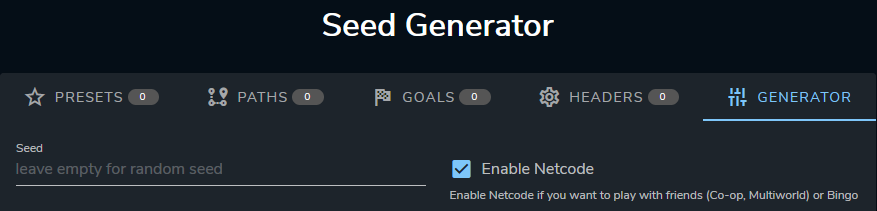
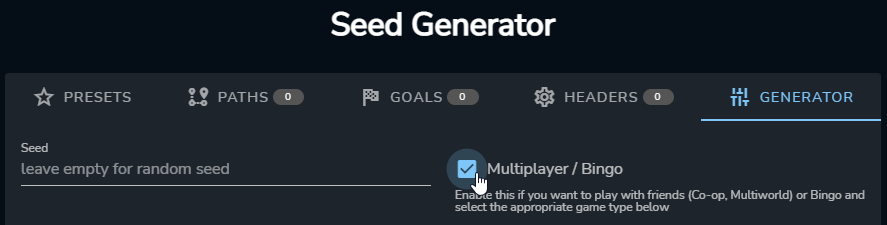
1.1 update

diff --git a/content/features/multiplayer.md b/content/features/multiplayer.md
@@ -2,47 +2,49 @@
 title: Multiplayer
 ---
 
-The randomizer also adds the possibility to play with other players! To do so, you first want to [generate a seed](/seedgen) with the Enable Netcode option enabled in the Generator tab.
+The randomizer also adds the possibility to play with other players! To do so, you first want to [generate a seed](/seedgen) with the Multiplayer/Bingo option from the Generator tab enabled.
 
 ![Netcode in gui](/media/netcode.png)
 
-When you generate a seed from the [Launcher](/features/launcher), you will automatically get redirected to the Game tab. If you aren't connected, you will need to log in by clicking on the top right button. The connection is using [Discord](https://discord.com/) so please download it if you don't already have it.
+Enabling that option will let you choose which kind of game you want to play from the dropdown just bellow. When you generate a seed from the [Launcher](/features/launcher), you will automatically get redirected to the Game tab. If you aren't connected, you will need to log in by clicking on the top right button. The connection is using [Discord](https://discord.com/) so please download it if you don't already have it.
 
-Once you are redirected to the Game tab, you can hover your mouse on the arrow on the left to make a little pop-in appear. In this pop-in, there is a button to share your game; clicking on it will copy the link to your game in your clipboard which you need to share to the other players. Opening this link will open the same page as your Game tab in a web browser. From here, other players can open the pop-in on the left to either download the seed or opening the game in the [Launcher](/features/launcher) itself. From here, you will be able to settup each teams
+Once you are redirected to the Game tab, you can click on the icon next to the game number to copy the link to this specific game in your clipboard and share it with the other players. Opening this link will open the same page as your Game tab in a web browser. They can then open the game in the launcher by clicking on the corresponding button.
 
-## Universe and World
+From here, you will be able to settup each teams by either creating new Universes or joining an already existing one. Click on the Play button from the World you are in in order to launch your seed.
+
+## Universe and Worlds
 
 On the Game tab, you should see something like this:
 
 ![Universe example](/media/universe.png)
 
-You will be either able to create a new universe, a new world inside an existing universe or joining an already created world. Each level have it's specificity:
+You will be either able to create a new universe or join a World. A World is each "box" inside a universe and they are automatically created when creating a new Universe. Each level have it's specificity:
 
-* Each players inside the same world are playing in [Co-op](/features/multiplayer#co-op) and are sharing their pickups and states. They have to play on the same seed.
-* Each worlds inside the same universe are sharing [Multiworld](/features/multiplayer#multiworld) pickups. Each worlds are playing in cooperation but players from World A are playing a different seed than players from World B.
-* An universe can be seen as a team and each universes are playing against each others. Each players in an universe are sharing [Bingo](/features/multiplayer#bingo) goals. Different universes are separated from each other which means players from Universe A can't interact with players from Universe B. 
+* Each players inside the same World are playing in [Co-op](/features/multiplayer#co-op) and are sharing their pickups and states. They are playing the same seed.
+* Each players inside the same Universe form a team. Players from the same Universe are sharing [Bingo](/features/multiplayer#bingo) goals and different Universes are playing aganst each others. Different Universes are separated from each other which means players from Universe A can't interact with players from Universe B.
+* Each players inside different World from the same Universe are playing in [Multiworld](/features/multiplayer#multiworld). Everyone is playing in cooperation but players from different Worlds are playing different seeds. 
 
 ## Co-op
 
-In Co-op, every player play on the same seed and share pickups so if a player from your team collects a pickup you will get that item aswell and the pickup will disappear from your game. This mode also shares game states so for example if your teammate opened the second room of wellspring, it will be open for every other players aswell.
+In Co-op, every player play on the same seed and share pickups so if a player from your team collects a pickup you will get the corresponding item aswell and the pickup will disappear from your game. This mode also shares game states so for example if your teammate opened the second room of Wellspring, it will be open for every other players aswell.
 
-To play in Co-op, when enabling the Netcode option in the [seed generator](/seedgen), more options should show up. Select the Normal option from the last dropdown and then generate your seed like any other seed. Then, use the share button in order to let the other players access your Game and download the seed. When you are on that page, either create a new Universe or join an already existing World. Every players which are on the same team must join the same World in order to share pickups. Different teams must be in a different Universe.
+To play in Co-op, when enabling the Multiplayer option in the [seed generator](/seedgen), more options should show up. Select the Normal option from the dropdown and then generate your seed like any other seed. Then, share the link to your game by clicking on the button next to the game number in order to let the other players access your Game and download the seed. When you are on that page, either create a new Universe or join an already existing World. Every players which are on the same team must join the same World in order to share pickups. Different teams must be in a different Universe.
 
 ## Multiworld
 
-Multiworld is a cooperative mode where players are playing on different seeds but, in you seed, you will found items for both you and other players. This is different from a normal [co-op](/features/multiplayer#co-op) where when someone found Bash, it gives it to every players. In multiworld, there is one copy of Bash for every Worlds and founding Bash for World A won't give Bash to players playing in World B. Your next logical progression can be placed in another seed than the one you are playing which means you can be blocked for a bit while waiting for someone else to find you another skill.
+Multiworld is a cooperative mode where players are playing on different seeds but you will found items for both you and other players in your own seed. This is different from a normal [co-op](/features/multiplayer#co-op) where when someone found Bash, it gives it to every players since, in multiworld, there is one copy of Bash for every Worlds and founding Bash for World A won't give Bash to players playing in World B. Your next logical progression can be placed in another seed than the one you are playing which means you can be blocked for a bit while waiting for someone else to find you another skill.
 
-To generate a Multiworld seed, when enabling the Netcode option, more options should show up. In the Multiworld worlds names input field, write every worlds' names (press enter every time you finished entering one name) which should also set the dropdown to the Normal setting. Then, [generate your seed](/seedgen) like any other seed and download the one corresponding to your world. Next, use the share button in order to let the other players access your Game and let them download their own seed. When you are on that page, either create a new Universe or a new World inside an already existing Universe. There should be as many Worlds inside the same universe as there is seeds. Players from different Worlds must be playing on different seeds.
+To generate a Multiworld seed, when enabling the Multiplayer option, more options should show up. In the Multiworld worlds names input field, write every worlds' names (press enter every time you finished entering one name) which should also set the dropdown to the Normal setting. Then, [generate your seed](/seedgen) like any other seed and download the one corresponding to your world. Next, copy the link to your game by cliking on the button next to the game number and share it with the other players in order to let them access your Game. When you are on that page, either create a new Universe or join a World inside an already existing Universe. Every Worlds must have at least one player.
 
-You can play Multiworld competitively. To do so, every team must be in a different Universe and each Universe must have as many worlds as there is seeds.
+You can play Multiworld against each other. To do so, every team must be in a different Universe.
 
 You can also mix Multiworld with [Co-op](/features/multiplayer#co-op). Players can cooperate by playing on the same seed and joining the same World. By doing so, they will share pickups between themselves and will still found and receive pickups for other Worlds from their Universe.
 
 ## Bingo
 
-Bingo is a mode which gives you a board with 25 objectives to complete. Your goal is to form lines with your completed objectives. It's recommanded to use the 3-Line Bingo utilities [header](/seedgen/headers) which let you press [Alt+C](/features/special-commands) when you completed at least 3 lines in order to start rolling the credits without having to fight Shriek. The randomizer automaticaly track your progress towards goals and will automaticaly claim goals you completed. Goals can vary from collecting pickups or trees to completing quests or doing specific actions like completing killing ennemies or rolling the snowball in Reach.
+Bingo is a mode which gives you a board with 25 objectives to complete. Your goal is to form lines with your completed objectives. It's recommanded to use the Bingo utilities [header](/seedgen/headers) which let you press [Alt+C](/features/special-commands) when you completed enough lines in order to start rolling the credits without having to fight Shriek. The randomizer automaticaly track your progress towards goals and will automaticaly claim goals you completed. Goals can vary from collecting pickups or trees to completing quests or doing specific actions like killing ennemies or rolling the snowball in Reach.
 
-In order to generate a bingo seed, you first want to [generate a seed](/seedgen) with the Netcode option enabled. Select the Bingo variant you want to play with from the last dropdown and then [generate your seed](/seedgen) like any other seed. Then, download the seed and use the share button in order to let the other players join your Game. When you are on that page, either create a new Universe or join an already existing World. Every players which are on the same World will be playing in [Co-op](/features/multiplayer#co-op) and will be sharing goals. Players from different Universe are playing against each others.
+In order to generate a bingo seed, you first want to [generate a seed](/seedgen) with the Multiplayer option enabled. Select the Bingo variant you want to play with from the dropdown and then [generate your seed](/seedgen) like any other seed. Then, click on the button next to your game number in order to copy the link to your game and share it to the other players so they can join your Game. When you are on that page, either create a new Universe or join an already existing World. Every players which are on the same World will be playing in [Co-op](/features/multiplayer#co-op) and will be sharing goals. Players from different Universe are playing against each others.
 
 It's also possible to mix [Multiworld](/features/multiplayer#multiworld) with Bingo. To do so, you need to generate a Multiworld seed but instead of selecting the Normal option from the dropdown, select the kind of bingo you want to play. Each players inside the same Universe will be sharing their goals.
 

diff --git a/content/features/settings.md b/content/features/settings.md
@@ -33,17 +33,19 @@ Options which change how to control some abilities.
 * Burrow Mouse Aiming: In the vanilla game, when using burrow you control Ori by using your directional inputs. With this option, you will control Ori's movement with your mouse cursor which lets you move in all directions rather than being limited to the 4 directions of your keyboard.
 * Water Dash Mouse Aiming: In the vanilla game, when using water dash you control Ori by using your directional inputs. With this option, you will control Ori's movement with your mouse cursor which lets you move in all directions rather than being limited to the 4 directions of your keyboard.
 * Invert Swim Speeds: In the vanilla game, holding the jump button makes Ori swims faster. With this option, Ori will be swimming at maximum speed by default and will be slowing down when holding your jump button.
+* Lock Cursor to Window: Prevents your mouse cursor from going outside of the game window
 
 ## Miscellaneous
 
-* Always Show Keystones: Display your keystone count in the top left corner at all time. Without this option, it would only appears when you are near a door.
+* Show Stats After Finish: When finishing a game, your launcher will be displaying the [Statistics](/features/stats) of that game.
 * Random Currency Names: When collecting Spirit Light, the "Spirit Light" text will be a random currency name. This does not impact the actual gameplay.
+* Always Show Keystones: Display your keystone count in the top left corner at all time. Without this option, it would only appears when you are near a door.
 
 ## Launch Settings
 
 * Steam path: The path to your Steam execution file. If you own the Steam version of the game instead of the Windows Store one, make sure this path is correct. You can change this path by clicking the folder icon on the right.
 * Launch with Item Tracker: Automatically open the item tracker when launching the randomizer
-* Disable Netcode: Prevents the randomizer from communicating with the rando server. With this option checked, bingo auto tracking and other netcode features like coop games will be unavailable.
+* Disable Netcode: Prevents the randomizer from communicating with the rando server. With this option checked, bingo auto tracking and other netcode features related to [multiplayer](/features/multiplayer) will be unavailable.
 * Use Windows Store: Launch the randomizer using Windows Store instead of Steam.
 
 ## Developer Tools

diff --git a/content/seedgen/goals.md b/content/seedgen/goals.md
@@ -23,4 +23,4 @@ All Quests adds the requirement to finish every quest in the game. This includes
 
 ## World Tour 
 
-World Tour adds one pickup called a [relic](/features/new-items) in some areas. You need to collect the relic in every zone that has one. The number of relics vary from one seed to another. You can tell if a zone has a relic by pressing [Alt+P](/features/special-commands) or opening your map. If the name of an area is red it means you have already collected its relic, white means the area have a relic but you haven't collected it yet and orange text indicates the area you are currently in (if you haven’t collected its relic).
+World Tour adds one pickup called a [relic](/features/new-items) in some areas. You need to collect the relic in every zone that has one. You can tell if a zone has a relic by pressing [Alt+P](/features/special-commands) or opening your map. If the name of an area is red it means you have already collected its relic, white means the area have a relic but you haven't collected it yet and orange text indicates the area you are currently in (if you haven’t collected its relic). The number of relics vary from one seed to another. You can set the probability of a relic spawning per area once you selected this goal in the seed generator.

diff --git a/content/features/stats.md b/content/features/stats.md
@@ -4,6 +4,10 @@ tags:
 - feature
 ---
 
-When watching the credits, the game will share statistics on your performance in each area.
+In the Stats tab of the Launcher, you can see the statistics of your current seed.
 
-For every area in the game, the randomizer will share how many pickups you got from that area, how many time you died and how much time you spend here aswell as showing your PPM. PPM is a ratio between how many pickups you collected and how much time you spend in the area. It stands for Pickups Per Minute. The higher it gets, the faster you are collecting pickups.
+For each area, the randomizer will share how many pickups you got, how many time you died and how much time you spend here aswell as showing your Pickups Per Minute (PPM). PPM is a ratio between how many pickups you collected and how much time you spend in the area. The higher it gets, the faster you are collecting pickups.
+
+You'll also be able to see other statistics such as the time lost to death, the number of time you used a teleporter and your peak PPM.
+
+The game will also share those statistics when rolling the credits.

diff --git a/content/tutorials/movement/advanced-launch-tech.md b/content/tutorials/movement/advanced-launch-tech.md
@@ -53,9 +53,8 @@ If you use Launch while you are running on a slope, you can use a second Launch 
 
 ## Launch Glide
 
-This trick is exclusive to keyboard and mouse control, but you can [bind](/features/keybinds) your second stick as a mouse if you want to use it on a controller.
-If before using Launch you release your directional input after doing either a backflip, releasing a bash or doing a reverse dash, you will preserve some of your Launch momentum.
+After doing either a backflip, releasing a bash or doing a reverse dash, use launch and release your directional input. This will preserve some of your Launch momentum, making it faster than usual.
 You can combine this with Launch Swap to go even faster.
-Launch Glide can be executed with a controller on the Switch version but is not possible on the Xbox or PC version without a keyboard and mouse.
+The randomizer fixes Launch Glide with a controller but, on the vanilla version, this can't be done unless when aiming your Launch with a mouse (unless if you are playing on the Switch version).
 
 <youtube-video id="aVQNR97Y7cI"></youtube-video>
